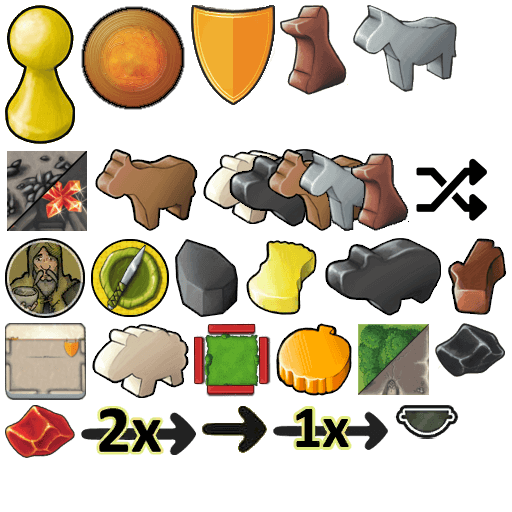
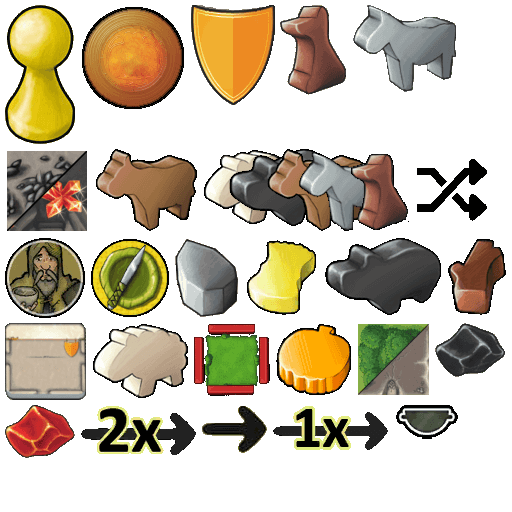
Fix stone color and forest exploration background

diff --git a/modules/css/layout.central.scss b/modules/css/layout.central.scss
@@ -361,7 +361,7 @@
   $actionCards: 'ActionAdventure' 'ActionBlacksmithing' 'ActionClearing4' 'ActionClearing' 'ActionDepot'
     'ActionDonkeyFarming' 'ActionDriftMining4' 'ActionDriftMining' 'ActionExcavation4' 'ActionExcavation'
     'ActionExploration' 'ActionExtension' 'ActionFamilyLife' 'ActionFenceBuilding6' 'ActionFenceBuilding'
-    'ActionForestExploration3' 'ActionForestExploration' 'ActionHardwareRental6' 'ActionHardwareRental'
+    'ActionForestExploration' 'ActionForestExploration4' 'ActionHardwareRental6' 'ActionHardwareRental'
     'ActionHousework' 'ActionImitation' 'ActionLargeDepot' 'ActionLogging4' 'ActionLogging' 'ActionOreDelivery'
     'ActionOreMineConstruction' 'ActionOreMining4' 'ActionOreMining' 'ActionOreTrading' 'ActionRubyDelivery'
     'ActionRubyMineConstruction' 'ActionRubyMining' 'ActionSheepFarming' 'ActionSlash' 'ActionSmallDriftMining'
